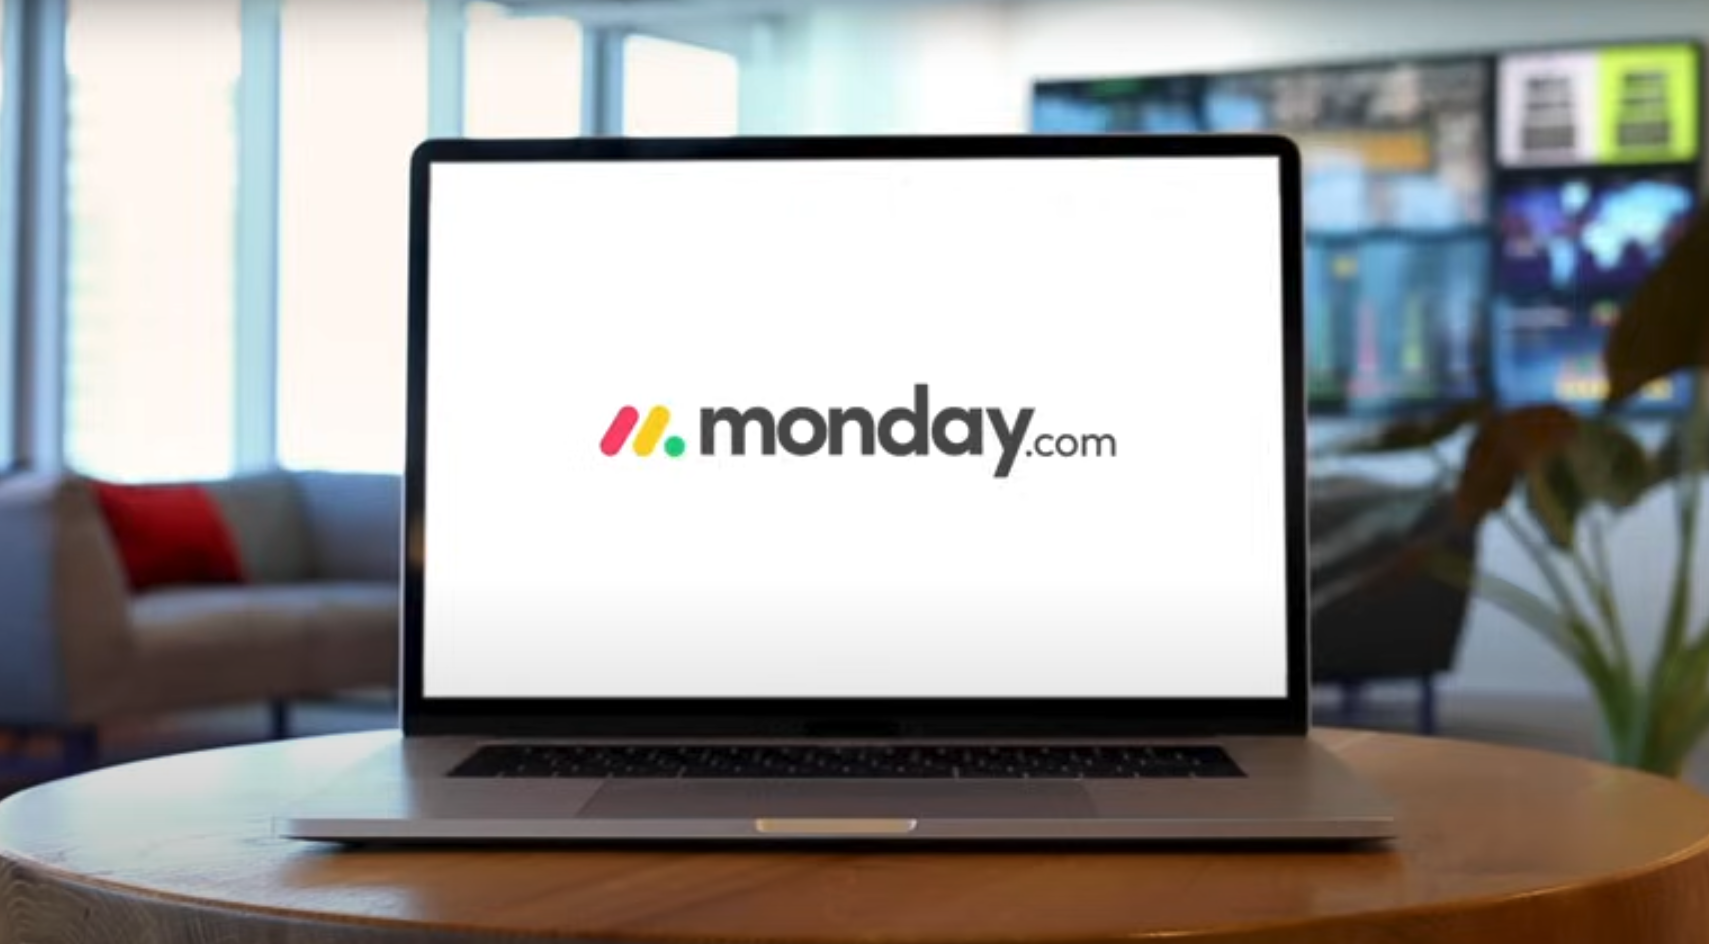
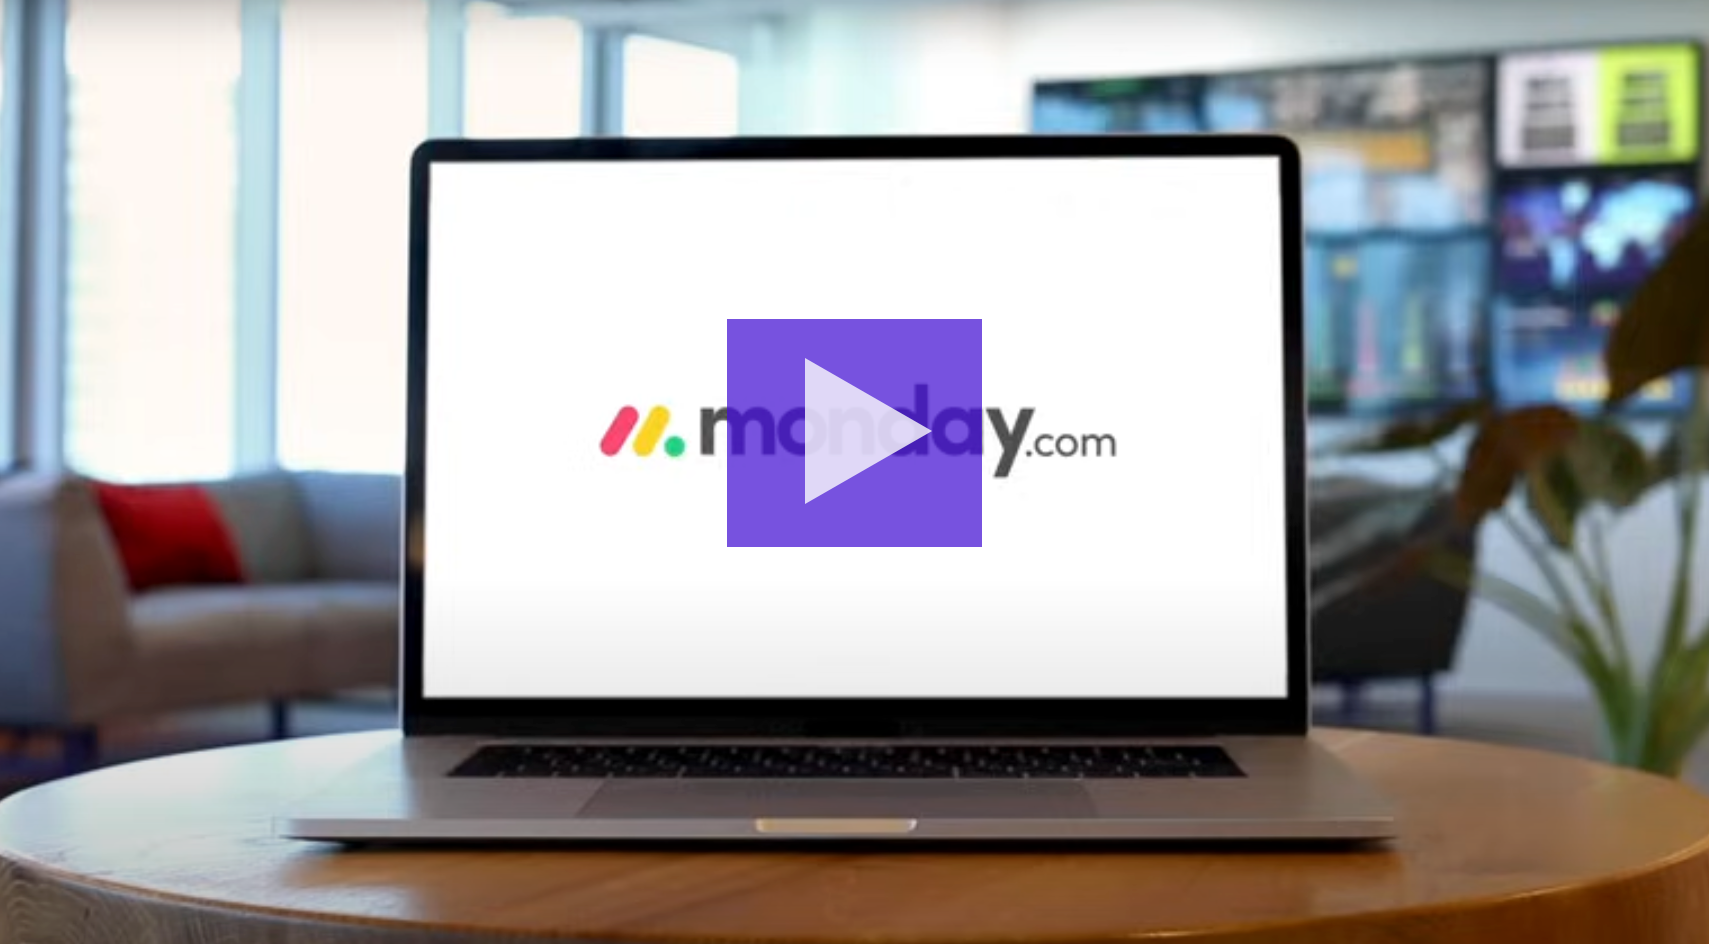
fixed alignment issues, replaced lightbox placeholder image, tweaked spacing in between sections and font sizes to make responsive

Changed region(s): [[0.4032, 0.3379, 0.5892, 0.5837]]

diff --git a/Midterm-Project/css/midterm.css b/Midterm-Project/css/midterm.css
@@ -285,16 +285,6 @@ div {
 }
 
 
-.email-footer .description a {
-    font-family: Futura, "Trebuchet MS", Arial, sans-serif;
-    font-weight: 100;
-    font-size: 12px;
-    line-height: 20px;
-    letter-spacing: 0px;
-    color: gray;
-    text-decoration: underline;
-}
-
 .gallery-element {
     background-size: cover;
     width: 300px;
@@ -305,6 +295,18 @@ div {
     align-items: center;
     width: 300px;
     height: 300px;
+}
+
+.lightbox img:hover {
+    transform: scale(1.06);
+    transition: all .3s ease-in-out;
+    opacity: 1.0;
+}
+
+.lightbox img {
+    transition: all .3s ease-in-out;
+    border-radius: 35px;
+    opacity: 0.7;
 }
 
 
@@ -322,7 +324,7 @@ div {
     background-color: rgb(42, 51, 113);
     transform: translate(-50%, 10%);
     position: absolute;
-    top: 50%;
+    top: 57%;
     left: 50%;
     padding: 20px;
     resize: both;
@@ -379,7 +381,7 @@ figure:hover {
 
 figure button {
     margin-top: 1rem;
-    align-self: flex-end;
+    align-self: center;
 }
 
 
@@ -520,21 +522,26 @@ a.lightbox-close:after {
 
 
 .highlight {
-    padding: 4rem;
+    padding: 4rem 5rem;
+}
+
+#highlight-1 {
+    margin-top: 40rem;
 }
 
 
-#highlight-2 img {
-    padding: 1rem;
+#highlight-2 {
+    padding: 3rem;
 }
 
 #highlight-2 h2 {
-    margin-left: 2rem;
-    margin-top: 1rem;
+    padding: 2rem 0rem 0rem 0rem;
+    margin: 0;
 }
 
 #highlight-2 p {
-    margin-left: 2rem;
+    padding: 2rem 2rem 0rem 0rem;
+    margin: 0;
 }
 
 
@@ -553,7 +560,12 @@ footer {
     padding-left: 1rem;
     font-weight: 200;
     font-size: 12pt;
-    line-height: 1;
+    line-height: 2;
+    margin: 0;
+}
+
+.footlinks {
+    padding-top: 2rem;
 }
 
 footer img {
@@ -569,7 +581,65 @@ p.copyright {
     font-weight: 200;
     font-size: 12pt;
     line-height: 1;
+    padding-top: 2rem;
 }
+
+
+
+/* Breakpoint */
+@media screen and (min-width: 600px) {
+
+    #highlight-1 {
+        margin-top: 28rem;
+    }
+
+}
+
+
+
+/* Breakpoint */
+@media screen and (min-width: 800px) {
+
+    h1 {
+        font-size: 48px;
+        max-width: 500px;
+    }
+    
+    .grid-inner {
+        display: grid;
+        grid-template-columns: 1fr 1fr;
+    }
+
+    .grid-inner figure {
+        margin: 1rem;
+    }
+
+    #highlight-1 {
+        margin-top: 12rem;
+    }
+
+    #highlight-2 img {
+        padding: 1rem;
+    }
+    
+    #highlight-2 h2 {
+        padding: 0rem 2rem;
+        margin-top: 0;
+    }
+    
+    #highlight-2 p {
+        padding: 2rem 2rem;
+    }
+
+    .callout {
+        min-width: 600px;
+        resize: both;
+        margin: 0;
+        justify-content: center;
+    }
+
+}
+
 
 
 /* Breakpoint */
@@ -639,8 +709,10 @@ p.copyright {
     .highlight {
         display: grid;
         grid-template-columns: 1fr 1fr;
-        background: rgb(7, 33, 94);
-        background: linear-gradient(180deg, rgb(25, 4, 119) 31%,  #13172b 88%);
+    }
+
+    #highlight-1 {
+        margin-top: 0rem;
     }
 
     .highlight h2 {

diff --git a/Midterm-Project/final-midterm-project.html b/Midterm-Project/final-midterm-project.html
@@ -55,7 +55,7 @@
         </li>
         </ul> 
 
-        <button class="menu-close"><i class="fa-solid fa-arrow-right"></i></button>
+        <!-- <button class="menu-close"><i class="fa-solid fa-arrow-right"></i></button> -->
 
     </nav>
 </header>
@@ -167,7 +167,7 @@
     </div>
 
     <div>
-        <h2>Everything You Can Do With monday.com</h2>
+        <h2>Everything you can do with monday.com</h2>
         <p>It’s no secret that we think monday.com is the best work management platform around — and that’s in part because of its intuitive, user-friendly interface. But that being said, it’s still worthwhile to know exactly how you can get the most out of the platform.
 
             That’s why we at monday.com have put together this step-by-step tutorial for learning to navigate our software. We’ll walk through best practices for setting up the platform, customizing templates, and collaborating with your team.</p>
